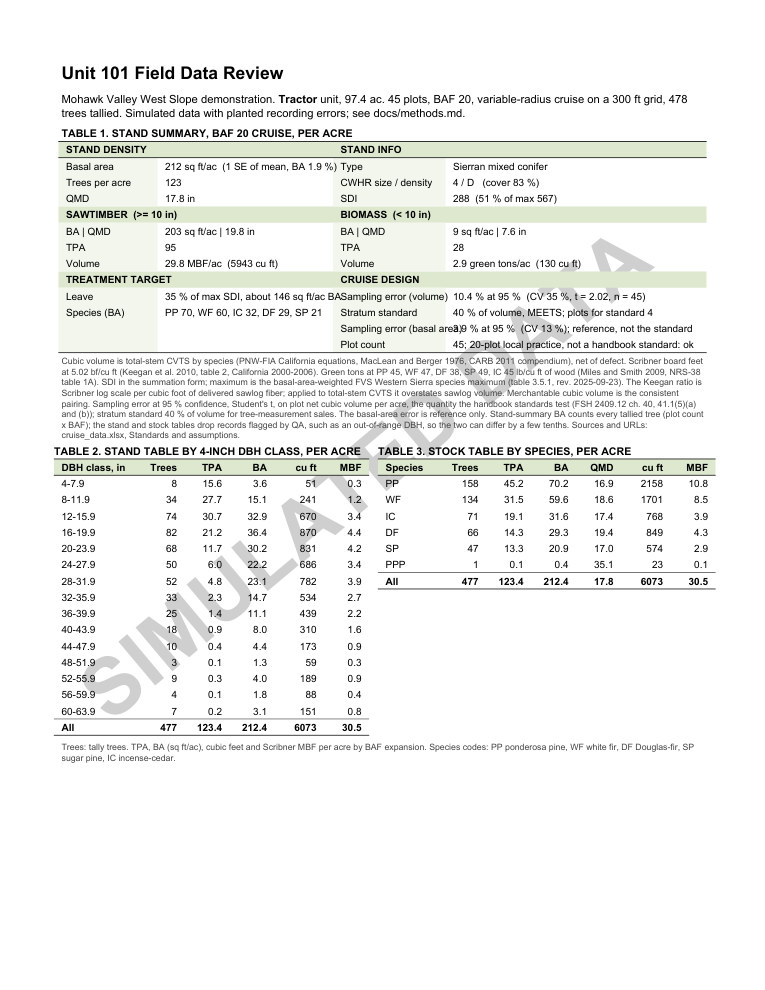
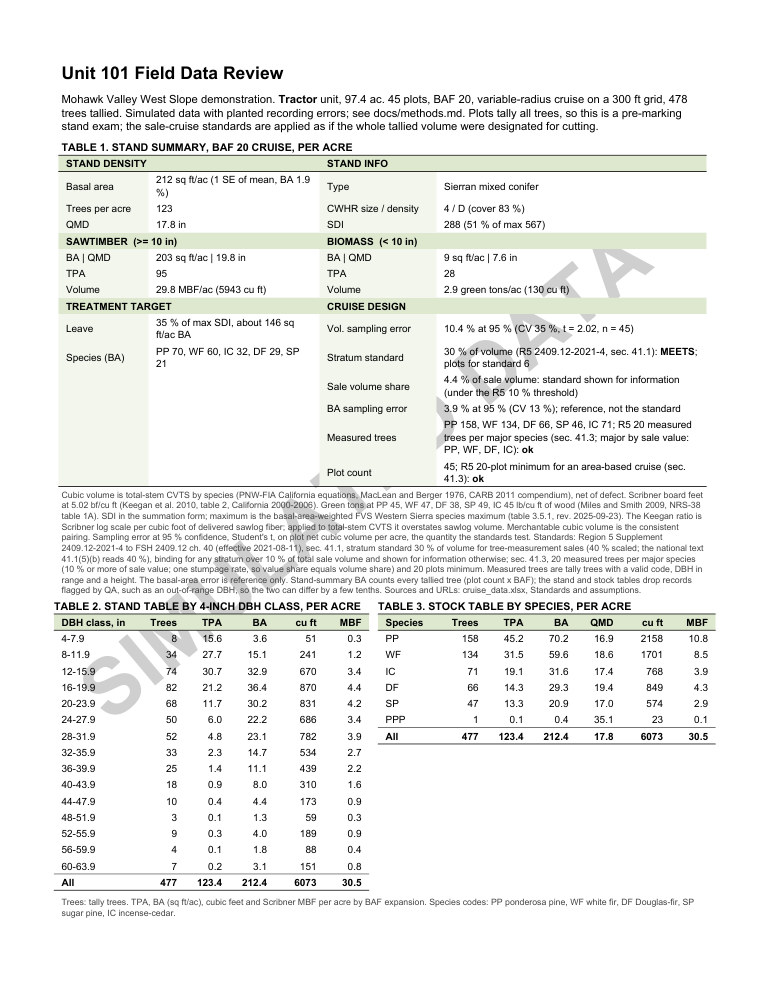
site: certification wording, Sunrise Pines location, resume anchor, refreshed review thumbnail

diff --git a/index.html b/index.html
@@ -40,7 +40,7 @@
       <div class="container">
         <a href="#gis-projects">Projects</a>
         <a href="#about">About</a>
-        <a href="#resume">Resume</a>
+        <a href="#resume-heading">Resume</a>
         <a href="#skills">Skills</a>
         <a href="#contact">Contact</a>
       </div>
@@ -83,7 +83,7 @@
               </div>
               <div class="project-brief">
                 <p><strong>Problem.</strong> A cable-versus-tractor harvest-unit plan for a 1,816-acre NEPA treatment block on the Plumas National Forest, from raw LiDAR to sale-map sheets.</p>
-                <p><strong>Context.</strong> The workflow follows the harvest planning I ran on this forest as a Forester III. That work is confidential, so this run uses an adjacent block I did not work on. The steps and QA checks are the same; the data is public.</p>
+                <p><strong>Context.</strong> The workflow follows the harvest planning I worked on for this forest as a Forester III. That work is confidential, so this run uses an adjacent block I did not work on. The steps and QA checks are the same; the data is public.</p>
                 <p><strong>Data.</strong> USGS 3DEP QL1 LiDAR from 2018, 650 million points, plus USFS EDW project areas and roads, NHD, BLM PLSS and Census TIGER.</p>
                 <p><strong>Method.</strong> PDAL and GDAL took the point cloud to a 3 ft DTM, CHM and planning slope. I delineated 24 units by rule, then screened 8,540 skyline corridors from 314 candidate landings for deflection, clearance and PNW-39 payload. The 25-sheet 11x17 series came out of PyQGIS as print PDF and Avenza GeoPDF. A simulated BAF 20 cruise was checked to FSH 2409.12.</p>
                 <p><strong>Result.</strong> 1,621 gross and 1,408 net acres. 18 tractor units and 6 cable; 5 of the 6 cable units have feasible corridors and one is flagged for a spur road.</p>
@@ -129,7 +129,7 @@
           <h2 id="about">About</h2>
           <p>I am a forester and GIS analyst based in Gold Run, in the northern Sierra Nevada, with more than eight years in the field, an M.S. in Forestry, and eligibility to sit for the California Registered Professional Forester (RPF) exam. The field work has covered federal timber sale and community protection projects on the Plumas National Forest, timber sale layout and cruising across seven states, chainsaw fuels treatments, and LiDAR forest structure and terrain analysis in R. At Jefferson Resource Company I set up ArcGIS Pro, Field Maps and Survey123 for field data collection and automated map production with ArcPy and lidR. My M.S. thesis on fire return intervals in the East Texas Pineywoods is the basis of a published fire ecology paper on which I am lead author.</p>
           <p>Timber sale and harvest-unit mapping, inventory analysis and LiDAR stand structure were the day-to-day work on federal projects, in ArcGIS Pro, ArcPy and R. The cruise compiler above is my own open-source tool, written on my own time. The harvest-planning workflow is rebuilt from scratch on public data in the first project above. All of my California timber sale work has been on National Forest land.</p>
-          <h2>Professional Resume</h2>
+          <h2 id="resume-heading">Professional Resume</h2>
           <p><a href="projects/resume/William_Steinley_Resume.pdf" class="button-primary" target="_blank" rel="noopener">Download resume (PDF, 2 pages)</a></p>
 
           <div class="resume-section">
@@ -165,7 +165,7 @@
 
               <div class="experience-item">
                 <div class="position">Forester</div>
-                <div class="company">Sunrise Pines Forestry &middot; California and six other states</div>
+                <div class="company">Sunrise Pines Forestry &middot; Flagstaff, AZ (projects in seven states)</div>
                 <ul class="resume-bullets">
                   <li>Laid out timber sales in seven states, from Rocky Mountain mixed conifer to Gulf Coastal Plain pine. Ground-based systems throughout, cable systems on steep ground in California and Montana.</li>
                   <li>Cruised timber by fixed-plot, variable-radius, strip, and 100% methods on varied forest types and ownerships, and ran 250+ plots myself in eastern Oklahoma. Compiled the cruise data into volume summaries for appraisals, management plans, and harvest scheduling.</li>
@@ -225,9 +225,8 @@
               <h3 class="resume-heading">Certifications &amp; Qualifications</h3>
               <div class="education-item">
                 <ul class="resume-bullets">
-                  <li>California Registered Professional Forester (RPF), exam eligible (California Board of Forestry and Fire Protection)</li>
-                  <li>ISA Certified Arborist, exam eligible (International Society of Arboriculture)</li>
-                  <li>Qualified Timber Cruiser, U.S. Forest Service Region 3</li>
+                  <li>California Registered Professional Forester (RPF), approved by the California Board of Forestry and Fire Protection to sit for the exam</li>
+                  <li>Qualified Cruiser (FSH 2409.12 ch. 60), U.S. Forest Service, Region 3, certified 2022&ndash;2023 while cruising Region 3 sales for Sunrise Pines Forestry</li>
                   <li>Tree Risk Assessment Qualification (TRAQ), International Society of Arboriculture</li>
                   <li>CPR, current</li>
                 </ul>
